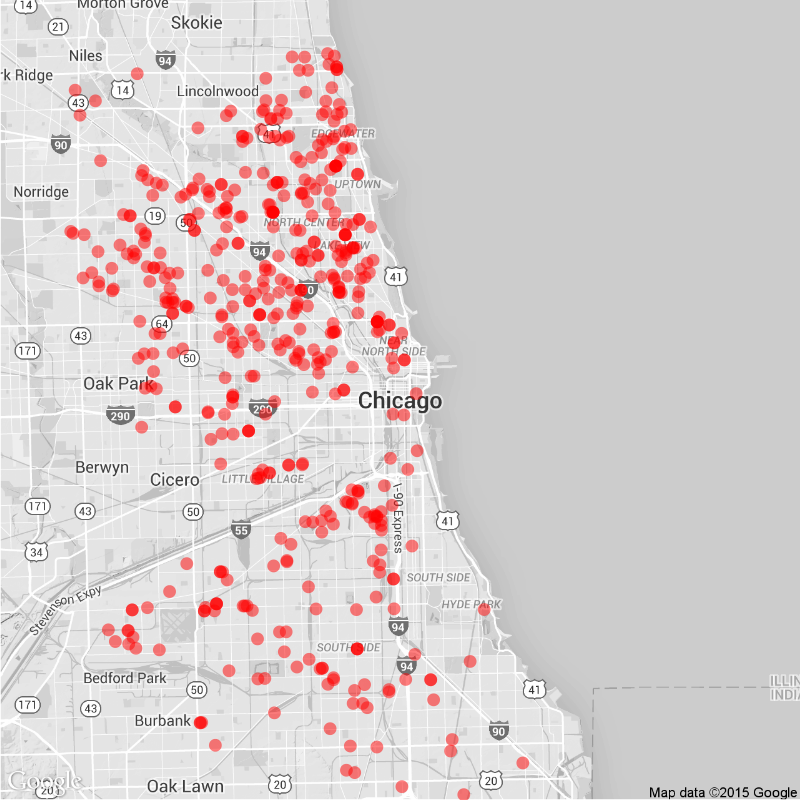
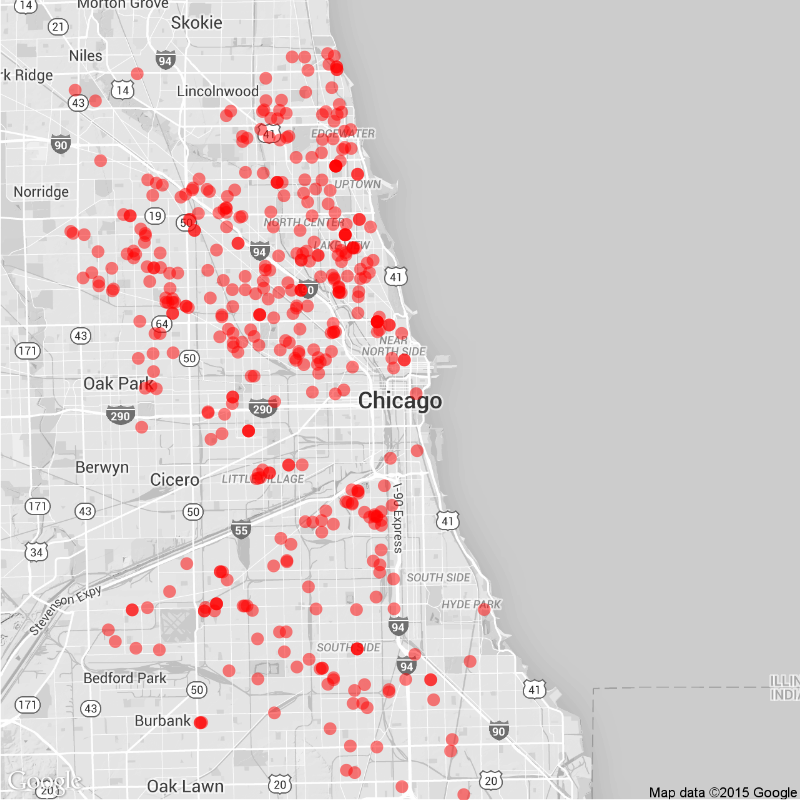
Daily Maps

diff --git a/daily.md b/daily.md
@@ -15,22 +15,22 @@ tags: Chicago NYC weekly daily rats
 
 ### Daily
 
-Yesterday (August 07), there were 0 calls to Chicago's 311 line about rats.
+Yesterday (August 08), there were 0 calls to Chicago's 311 line about rats.
 ![Chicago rat calls to 311 weekly map]({{ site.cityimages }}/daily/Chicago_Rat_Map_Daily.png)
 
 ### Weekly
-Between August 01 and August 07, there were 505 calls to Chicago's 311 line about rats. The average number of weekly calls for this time of year is 928.
+Between August 02 and August 08, there were 437 calls to Chicago's 311 line about rats. The average number of weekly calls for this time of year is 928.
 ![Chicago rat calls to 311 weekly map]({{ site.cityimages }}/daily/Chicago_Rat_Map_Weekly.png)
 ***
 # New York City <a id="nyc"><a>
 
 ### Daily
 
-Yesterday (August 07), there were 0 calls to New York City's 311 line about rats.
+Yesterday (August 08), there were 0 calls to New York City's 311 line about rats.
 ![NYC rat calls to 311 weekly map]({{ site.cityimages }}/daily/NYC_Rat_Map_Daily.png)
 
 ### Weekly
-Between August 01 and August 07, there were 0 calls to New York City's 311 line about rats. The average number of weekly calls for this time of year is 286.
+Between August 02 and August 08, there were 0 calls to New York City's 311 line about rats. The average number of weekly calls for this time of year is 286.
 ![NYC rat calls to 311 weekly map]({{ site.cityimages }}/daily/NYC_Rat_Map_Weekly.png)
 
 Each red dot represents one call about a rat seen in that location. The dots are transparent, so multiple calls from one location will be seen as a solid dot. The usual caveats apply: more calls do not necessarily mean that there are more rats in that location than other parts of the city. A cluster of dots could indicate that one resident is unusually vocal about rodents in his or her neighborhood. Also, more densely populated neighborhoods tend to make more calls to 311.
